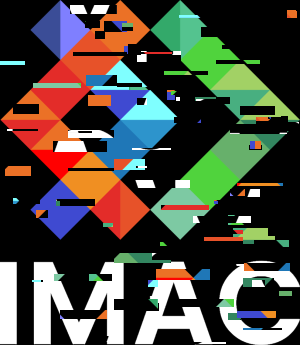
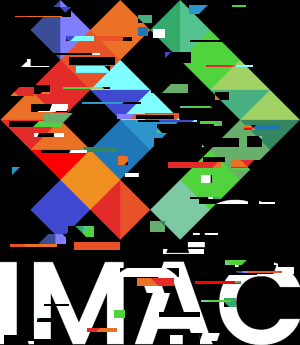
final

diff --git a/src/main.cpp b/src/main.cpp
@@ -238,10 +238,6 @@ void exo17(sil::Image& image)
     }
 }
 
-// exo18
-
-
-
 
 int main()
 {
@@ -351,6 +347,5 @@ int main()
         exo17(image);
         image.save("output/exo17.png");
     }
-
 
 }

diff --git a/README.md b/README.md
@@ -1,3 +1,113 @@
-# 🐣 S1 | Prog: Workshop
+# S1 Worshop 🧠
+____
+Anaïs Minel IMAC3
+____
+## Exercice 1 - ⭐ Ne garder que le vert 
 
-Template de projet pour le workshop de prog des Imac1. Vous trouverez le sujet ici: https://dsmte.github.io/Learn--cpp_programming/Workshop
+| Avant    |Après| 
+| ------------- | :-----------: | 
+|![image](./images/logo.png)|![image](./output/exo1.png)| 
+____
+## Exercice 2 - ⭐ Échanger les canaux 
+
+| Avant    |Après| 
+| ------------- | :-----------: | 
+|![image](./images/logo.png)|![image](./output/exo2.png)| 
+____
+## Exercice 3 - ⭐ Noir & Blanc
+
+| Avant    |Après| 
+| ------------- | :-----------: | 
+|![image](./images/logo.png)|![image](./output/exo3.png)| 
+____
+## Exercice 4 - ⭐ Négatif 
+
+| Avant    |Après| 
+| ------------- | :-----------: | 
+|![image](./images/logo.png)|![image](./output/exo4.png)| 
+____
+## Exercice 5 - ⭐ Dégradé
+
+| Résultat    | 
+| ------------- |
+|![image](./output/exo5.png)| 
+____
+## Exercice 6 - ⭐⭐ Miroir
+
+| Avant    |Après| 
+| ------------- | :-----------: | 
+|![image](./images/logo.png)|![image](./output/exo6.png)| 
+____
+## Exercice 7 - ⭐⭐ Image bruitée
+
+| Avant    |Après| 
+| ------------- | :-----------: | 
+|![image](./images/logo.png)|![image](./output/exo7.png)|
+____
+## Exercice 8 - ⭐⭐ Rotation de 90°
+
+| Avant    |Après| 
+| ------------- | :-----------: | 
+|![image](./images/logo.png)|![image](./output/exo8.png)|  
+____
+## Exercice 9 - ⭐⭐ RGB split
+
+| Avant    |Après| 
+| ------------- | :-----------: | 
+|![image](./images/logo.png)|![image](./output/exo9.png)| 
+____
+## Exercice 10 - ⭐⭐ Luminosité
+
+| Avant    |Sombre| Lumineux|
+| ------------- | :-----------: | :-----------: | 
+|![image](./images/photo.jpg)|![image](./output/exo10_dark.png)| ![image](./output/exo10_light.png)| 
+____
+## Exercice 11 - ⭐⭐(⭐) Disque
+
+| Résultat    |
+| ------------- |  
+|![image](./output/exo11.png)|
+____
+## Exercice 12 - ⭐⭐  Cercle
+
+| Résultat    |
+| ------------- |  
+|![image](./output/exo12.png)|
+____
+## Exercice 13 - ⭐⭐  Animation
+**Résultat frame par frame**
+
+|![image](./output/exo13_0.png)|![image](./output/exo13_1.png)|![image](./output/exo13_2.png)|![image](./output/exo13_3.png)|![image](./output/exo13_4.png)|
+| ------------- | ------------- | ------------- | ------------- | ------------- |
+|![image](./output/exo13_5.png)|![image](./output/exo13_6.png)|![image](./output/exo13_7.png)|![image](./output/exo13_8.png)|![image](./output/exo13_9.png)|
+
+|![image](./output/exo13_10.png)|![image](./output/exo13_11.png)|![image](./output/exo13_12.png)|![image](./output/exo13_13.png)|![image](./output/exo13_14.png)|
+| ------------- | ------------- | ------------- | ------------- | ------------- |
+|![image](./output/exo13_15.png)|![image](./output/exo13_16.png)|![image](./output/exo13_17.png)|![image](./output/exo13_18.png)|![image](./output/exo13_19.png)|
+
+|![image](./output/exo13_20.png)|![image](./output/exo13_21.png)|![image](./output/exo13_22.png)|![image](./output/exo13_23.png)|![image](./output/exo13_24.png)|
+| ------------- | ------------- | ------------- | ------------- | ------------- |
+|![image](./output/exo13_25.png)|![image](./output/exo13_26.png)|![image](./output/exo13_27.png)|![image](./output/exo13_28.png)|![image](./output/exo13_29.png)|
+
+**Résultat Gif**
+![image](./output/ezgif.com-gif-maker.gif)
+____
+## Exercice 14 - ⭐⭐⭐ Rosace
+
+| Résultat    |
+| ------------- |  
+|![image](./output/exo14.png)|
+____
+## Exercice 15 - ⭐⭐ Mosaïque
+
+| Avant    |Après| 
+| ------------- | :-----------: | 
+|![image](./images/logo.png)|![image](./output/exo15.png)| 
+____
+## Exercice 17 - ⭐⭐⭐ Glitch
+
+| Avant    |Après| 
+| ------------- | :-----------: | 
+|![image](./images/logo.png)|![image](./output/exo17.png)| 
+___
+(Je voulais montrer tous mes ratés mais je les ai supprimés au fur et à mesure, je n'avais pas compris 😢)
